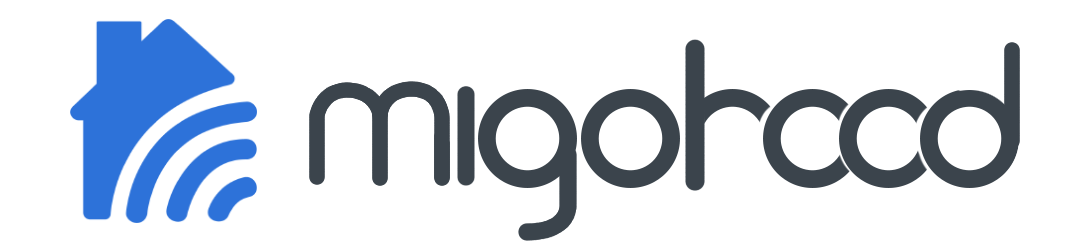
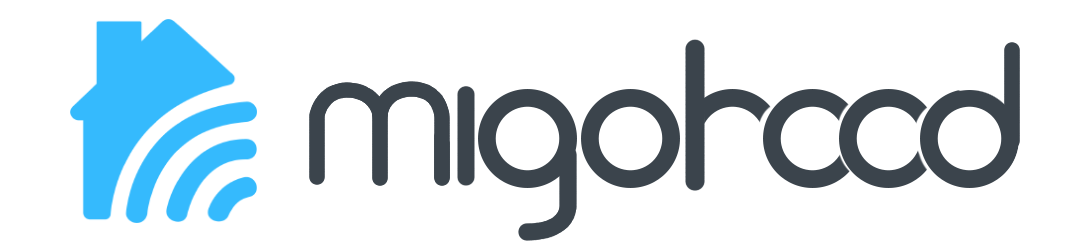
Some changes

Changed region(s): [[0.0607, 0.0833, 0.2429, 0.8889]]

diff --git a/public/css/app.css b/public/css/app.css
@@ -22,7 +22,7 @@ main { flex: 1 0 auto; }
   MAIN NAVBAR
 ****************/
 #main nav {
-  background: #2D72D9 !important;
+  background: #02A4F5 !important;
 	box-shadow: none !important;
 	-webkit-box-shadow:none !important;
 }
@@ -72,7 +72,7 @@ main { flex: 1 0 auto; }
 
 #main nav .right .btn-start {
   color: #FFF;
-  background: #205BB3 !important;
+  background: #028ACE !important;
   width: 140px;
 }
 
@@ -86,17 +86,17 @@ main { flex: 1 0 auto; }
 }
 
 #main nav .right .btn-start:hover {
-  background: #2363C4 !important;
+  background: #0297E1 !important;
 }
 
 #main nav .right .btn-reg {
   color: #FFF;
-  background: #205BB3 !important;
+  background: #028ACE !important;
   width: 100px;
 }
 
 #main nav .right .btn-reg:hover {
-  background: #2363C4 !important;
+  background: #0297E1 !important;
 }
 
 /* Nav-options */
@@ -167,7 +167,7 @@ main { flex: 1 0 auto; }
 
 #options nav ul li a:hover {
   background: none !important;
-  color: #2D72D9 !important;
+  color: #02A4F5 !important;
 }
 
 /* Active */
@@ -178,10 +178,10 @@ main { flex: 1 0 auto; }
 }
 
 #options nav ul li.active a {
-  color: #2D72D9 !important;
+  color: #02A4F5 !important;
   font-weight: bold;
   margin-top: 4px;
-  border-bottom: 4px solid #2D72D9;
+  border-bottom: 4px solid #02A4F5;
 }
 
 /* Underline Reveal */
@@ -205,7 +205,7 @@ main { flex: 1 0 auto; }
   left: 0;
   right: 0;
   bottom: 0;
-  background: #2D72D9;
+  background: #02A4F5;
   height: 4px;
   -webkit-transform: translateY(4px);
   transform: translateY(4px);
@@ -377,14 +377,23 @@ main { flex: 1 0 auto; }
 /***************
    INFO BOXES
 ****************/
+/*
 .info {
   background: #FFF !important;
   border-radius: 8px;
 }
-
+*/
 .info-body {
-  padding: 0px 20px;
+  padding: 2px 20px;
   text-align: center;
+}
+
+.info {
+	position: relative;
+	background: #F7F8FA;
+  border-radius: 8px;
+	border-left: 6px solid #E4E5E7;
+
 }
 
 /*******************
@@ -415,19 +424,19 @@ div.option i {
 }
 
 div.option.active i {
-  color: #2D72D9;
+  color: #02A4F5;
   font-size: 50px;
 }
 
 div.option.active span  {
-  color: #2D72D9;
+  color: #02A4F5;
 }
 
 div.active {
-  border: 3px solid #2D72D9;
+  border: 3px solid #02A4F5;
   background: #FFF;
   border-radius: 4px;
-  color: #2D72D9;
+  color: #02A4F5;
 }
 
 div.bat:hover {

diff --git a/public/css/site.css b/public/css/site.css
@@ -73,7 +73,7 @@ main { flex: 1 0 auto; }
 
 #main nav .right .btn-start {
   color: #FFF;
-  background: #0A86F7 !important;
+  background: #02A4F5 !important;
   width: 140px;
 }
 
@@ -87,17 +87,17 @@ main { flex: 1 0 auto; }
 }
 
 #main nav .right .btn-start:hover {
-  background: #087CE6 !important;
+  background: #0297E1 !important;
 }
 
 #main nav .right .btn-reg {
   color: #FFF;
-  background: #0A86F7 !important;
+  background: #02A4F5 !important;
   width: 100px;
 }
 
 #main nav .right .btn-reg:hover {
-  background: #087CE6 !important;
+  background: #0297E1 !important;
 }
 
 /* Nav-options */
@@ -185,12 +185,12 @@ main { flex: 1 0 auto; }
   -webkit-box-shadow: none;
   -moz-box-shadow: none;
   box-shadow: none;
-  background: #0A86F7 !important;
+  background: #02A4F5 !important;
   border-radius: 4px;
 }
 
 #box form .btn:hover {
-  background: #087CE6 !important;
+  background: #0297E1 !important;
 }
 
 #box form .btn i {
@@ -241,7 +241,11 @@ input[type=text]:focus:not([readonly]) {
 }
 
 #box span a {
-  color: #0A86F7;
+  color: #02A4F5;
+}
+
+#box span a:hover {
+  color: #0297E1;
 }
 
 /* Underline Reveal */
@@ -265,7 +269,7 @@ input[type=text]:focus:not([readonly]) {
   left: 0;
   right: 0;
   bottom: 0;
-  background: #087CE6;
+  background: #0297E1;
   height: 2px;
   -webkit-transform: translateY(2px);
   transform: translateY(2px);

diff --git a/public/css/auth.css b/public/css/auth.css
@@ -181,8 +181,8 @@ form p {
 **************/
 .btn-submit {
 	width: 95%;
-	background: #0071EB;
-	color: #F8F8F8;
+	background: #02A4F5;
+	color: #FFF;
   font-weight: 600;
   height: 32px;
   line-height: 32px;
@@ -191,6 +191,6 @@ form p {
 }
 
 .btn-submit:hover, .btn-submit:focus {
-	background: #057DFF !important;
+	background: #0297E1 !important;
   box-shadow: none; -webkit-box-shadow:none;
 }

diff --git a/public/css/explore.css b/public/css/explore.css
@@ -84,7 +84,7 @@
 }*/
 
 .pagination li.active {
-  background-color: #2D72D9;
+  background-color: #0297E1;
 }
 
 /*.pagination li.disabled a {

diff --git a/resources/views/posts/create.blade.php b/resources/views/posts/create.blade.php
@@ -43,7 +43,7 @@
             </div>
 
             <div class="option tab bat" onclick="show('form_service')">
-                <i class="material-icons">location_city</i><br>
+                <i class="material-icons">business_center</i><br>
                 <span>Service</span>
             </div>
 
@@ -65,11 +65,10 @@
             <div class="info-body">
               <h4 class="light">Let's get Started</h4>
               <p class="light">
-                Post your spaces or service to all to start making money.
-                Remember that people who come to your city need you.
-                Migohood's Users can select certain filters on the
-                of the space to conduct their searches and find the
-                accommodation they want and need.
+                Post your spaces or service to all to start making money,
+                remember that people who come to your city need you.
+                Migohood's Users can select certain filters to conduct their
+                searches and find the accommodation or services they want and need.
               </p>
             </div>
           </div>

diff --git a/config/mail.php b/config/mail.php
@@ -119,6 +119,6 @@ return [
     |
     */
 
-    'pretend' => false, 
+    'pretend' => false,
 
 ];
